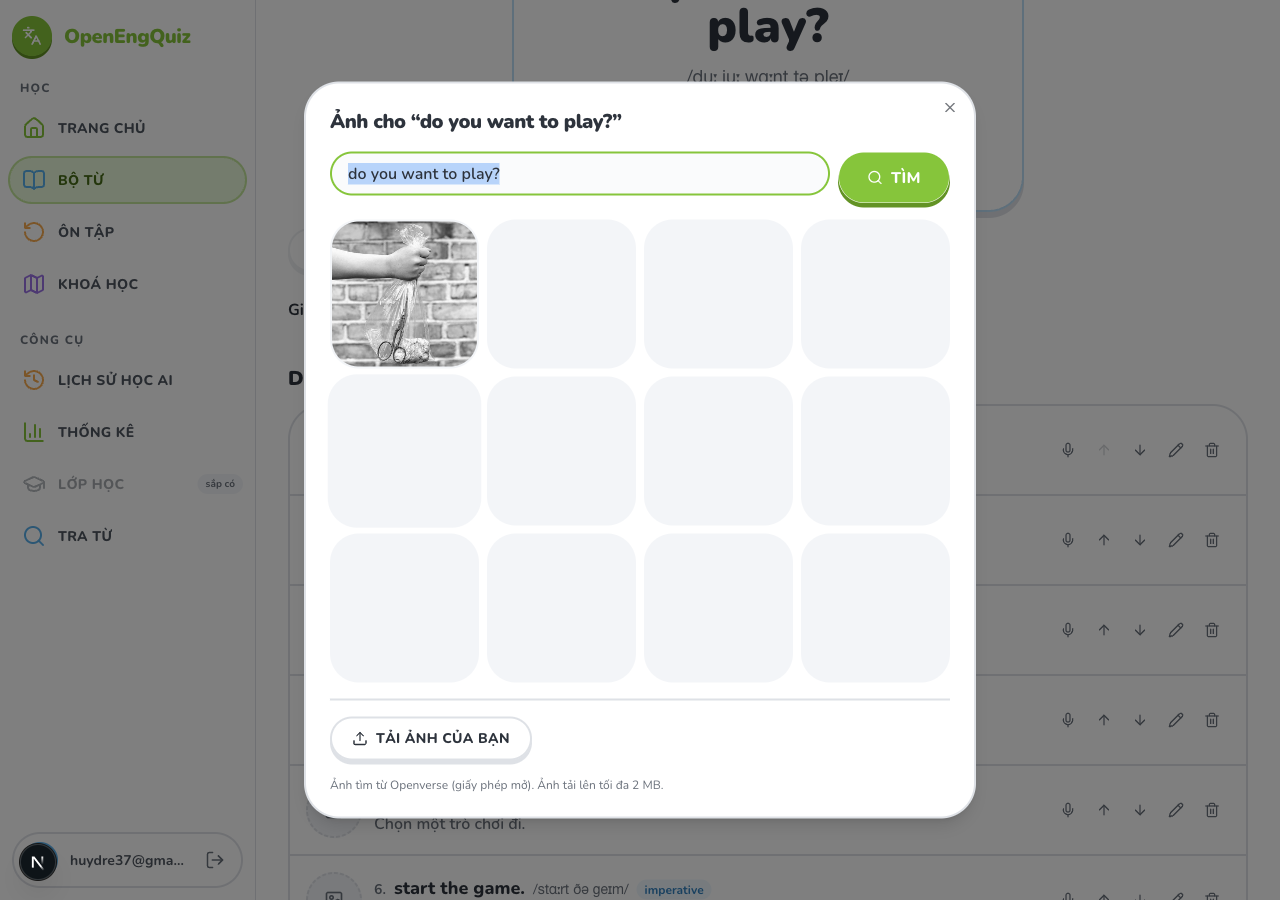
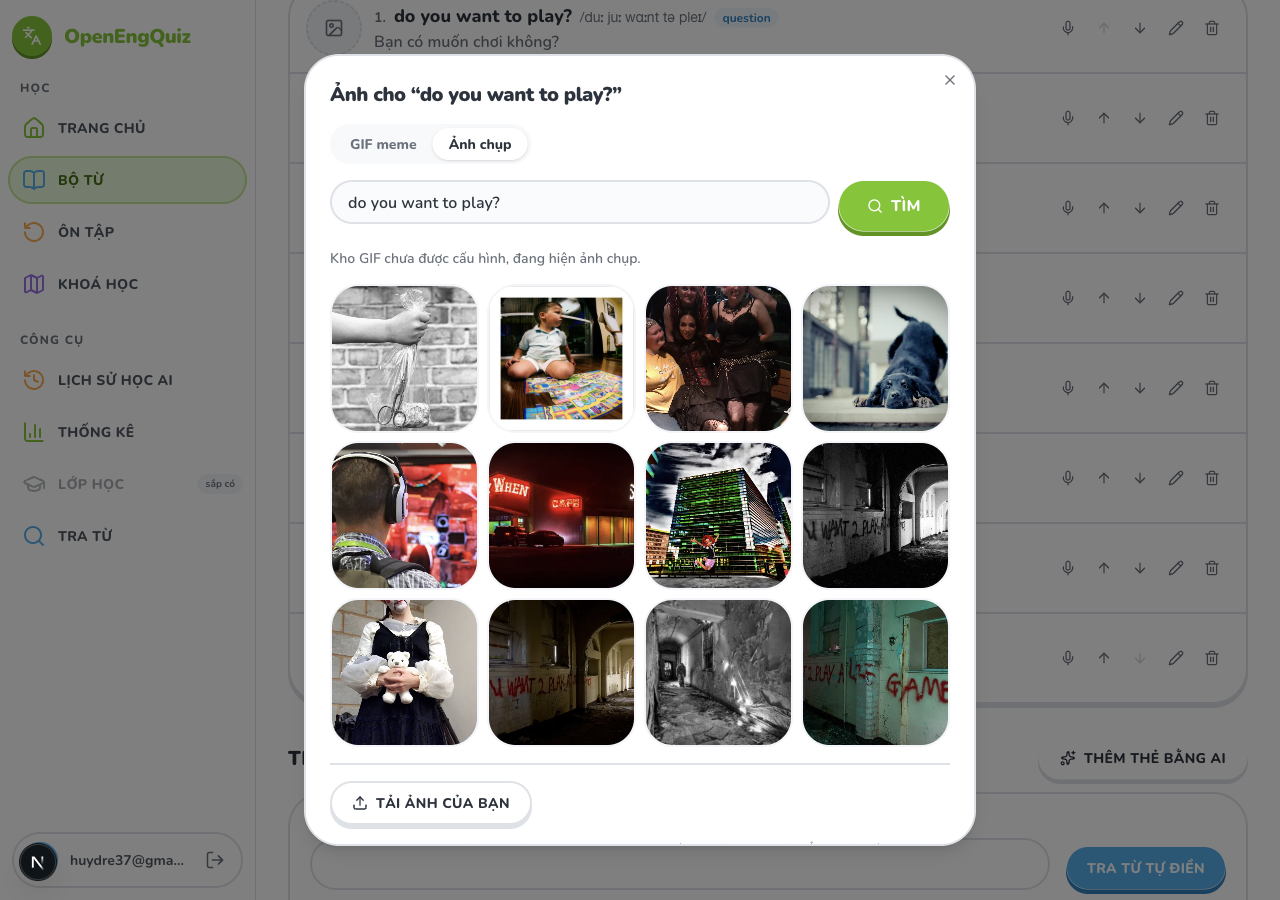
feat(media): GIF meme search for card images via Giphy or Tenor

diff --git a/src/app/(app)/sets/card-image-picker.tsx b/src/app/(app)/sets/card-image-picker.tsx
@@ -26,20 +26,29 @@ export function CardImagePicker({ setId, card, open, onOpenChange }: {
 }) {
   const router = useRouter();
   const [query, setQuery] = useState(card.term);
+  const [kind, setKind] = useState<"gif" | "photo">("gif");
   const [images, setImages] = useState<Found[] | null>(null);
   const [searching, setSearching] = useState(false);
   const [saving, setSaving] = useState(false);
   const [error, setError] = useState("");
+  const [notice, setNotice] = useState("");
   const fileInput = useRef<HTMLInputElement>(null);
   const searched = useRef(false);
 
-  async function search(value: string) {
+  async function search(value: string, type: "gif" | "photo" = kind) {
     if (!value.trim()) return;
     setSearching(true);
     setError("");
     try {
-      const response = await fetch(`/api/media/search?q=${encodeURIComponent(value.trim())}`);
+      const response = await fetch(`/api/media/search?q=${encodeURIComponent(value.trim())}&type=${type}`);
       const body = await response.json().catch(() => ({}));
+      // No GIF provider configured: fall back to photos so the picker is still useful.
+      if (response.status === 503 && type === "gif") {
+        setKind("photo");
+        setNotice("Kho GIF chưa được cấu hình, đang hiện ảnh chụp.");
+        await search(value, "photo");
+        return;
+      }
       if (!response.ok) throw new Error(body.error ?? "Chưa tìm được ảnh.");
       setImages(body.images ?? []);
     } catch (cause) {
@@ -49,12 +58,13 @@ export function CardImagePicker({ setId, card, open, onOpenChange }: {
     }
   }
 
-  // Search once with the card's term when the dialog first opens.
+  // Search once with the card's term when the dialog first opens (later searches are user-driven).
   useEffect(() => {
     if (open && !searched.current) {
       searched.current = true;
       void search(card.term);
     }
+    // eslint-disable-next-line react-hooks/exhaustive-deps -- run once per opening, not on every search change
   }, [open, card.term]);
 
   async function save(url: string | null) {
@@ -99,18 +109,34 @@ export function CardImagePicker({ setId, card, open, onOpenChange }: {
       <DialogContent aria-describedby={undefined} className="bg-card max-h-[88vh] overflow-auto rounded-3xl border-2 sm:max-w-2xl [&>*]:min-w-0">
         <DialogTitle className="pr-8 text-xl font-black">Ảnh cho &ldquo;{card.term}&rdquo;</DialogTitle>
 
+        <div className="bg-muted/60 flex w-fit rounded-2xl p-1" role="tablist" aria-label="Loại ảnh">
+          {(["gif", "photo"] as const).map((value) => (
+            <button
+              key={value}
+              type="button"
+              role="tab"
+              aria-selected={kind === value}
+              onClick={() => { setKind(value); setImages(null); void search(query, value); }}
+              className={cn("rounded-xl px-4 py-1.5 text-sm font-extrabold", kind === value ? "bg-card shadow-sm" : "text-muted-foreground")}
+            >
+              {value === "gif" ? "GIF meme" : "Ảnh chụp"}
+            </button>
+          ))}
+        </div>
+
         <form onSubmit={onSubmit} className="flex gap-2" role="search">
           <input
             value={query}
             onChange={(event) => setQuery(event.target.value)}
             aria-label="Tìm ảnh"
-            placeholder="Tìm ảnh minh hoạ"
+            placeholder={kind === "gif" ? "Tìm GIF, ví dụ: happy, tired, let\u2019s go" : "Tìm ảnh minh hoạ"}
             className="bg-muted/40 focus-visible:border-primary h-11 min-w-0 flex-1 rounded-2xl border-2 px-4 font-semibold outline-none"
           />
           <Button type="submit" size="lg" disabled={searching}><Search aria-hidden="true" /> Tìm</Button>
         </form>
 
         {searching ? <LogoLoader size="sm" label="Đang tìm ảnh..." /> : null}
+        {notice ? <p role="status" className="text-muted-foreground text-sm font-semibold">{notice}</p> : null}
         {error ? <p role="alert" className="text-destructive text-sm font-bold">{error}</p> : null}
 
         {images && !searching ? (
@@ -152,7 +178,7 @@ export function CardImagePicker({ setId, card, open, onOpenChange }: {
           ) : null}
           {saving ? <LogoLoader size="sm" label="Đang lưu..." /> : null}
         </div>
-        <p className="text-muted-foreground text-xs">Ảnh từ kho ảnh miễn phí (Pixabay hoặc Openverse). Ảnh tải lên tối đa 2 MB.</p>
+        <p className="text-muted-foreground text-xs">GIF từ Giphy hoặc Tenor, ảnh chụp từ Pixabay hoặc Openverse, đều lọc nội dung an toàn. Ảnh tải lên tối đa 2 MB.</p>
       </DialogContent>
     </Dialog>
   );

diff --git a/src/app/api/media/search/route.ts b/src/app/api/media/search/route.ts
@@ -6,6 +6,18 @@ export type MediaImage = { thumb: string; url: string; title: string };
 const openverseSchema = z.object({
   results: z.array(z.object({ url: z.string(), thumbnail: z.string().nullable().optional(), title: z.string().nullable().optional() })),
 });
+const giphySchema = z.object({
+  data: z.array(z.object({
+    title: z.string().optional(),
+    images: z.object({ fixed_width: z.object({ url: z.string() }), downsized_medium: z.object({ url: z.string() }).optional(), original: z.object({ url: z.string() }) }),
+  })),
+});
+const tenorSchema = z.object({
+  results: z.array(z.object({
+    content_description: z.string().optional(),
+    media_formats: z.object({ tinygif: z.object({ url: z.string() }), gif: z.object({ url: z.string() }) }),
+  })),
+});
 const pixabaySchema = z.object({
   hits: z.array(z.object({ tags: z.string().optional(), webformatURL: z.string(), largeImageURL: z.string() })),
 });
@@ -23,9 +35,45 @@ export async function GET(request: Request) {
   const { data: { user } } = await supabase.auth.getUser();
   if (!user) return Response.json({ error: "Vui lòng đăng nhập." }, { status: 401 });
 
-  const query = new URL(request.url).searchParams.get("q")?.trim().slice(0, 80);
+  const params = new URL(request.url).searchParams;
+  const query = params.get("q")?.trim().slice(0, 80);
   if (!query) return Response.json({ error: "Nhập từ cần tìm ảnh." }, { status: 400 });
   const signal = AbortSignal.timeout(12_000);
+
+  // GIF memes: Giphy (GIPHY_API_KEY) or Tenor (TENOR_API_KEY), both limited to family-safe ratings.
+  if (params.get("type") === "gif") {
+    const giphyKey = process.env.GIPHY_API_KEY;
+    const tenorKey = process.env.TENOR_API_KEY;
+    if (!giphyKey && !tenorKey) {
+      return Response.json({ error: "Chưa cấu hình kho GIF. Thêm GIPHY_API_KEY hoặc TENOR_API_KEY để tìm GIF." }, { status: 503 });
+    }
+    try {
+      let images: MediaImage[];
+      if (giphyKey) {
+        const search = new URLSearchParams({ api_key: giphyKey, q: query, limit: "12", rating: "pg", lang: "en" });
+        const response = await fetch(`https://api.giphy.com/v1/gifs/search?${search}`, { signal, next: { revalidate: 86_400 } });
+        if (!response.ok) throw new Error(`Giphy ${response.status}`);
+        images = giphySchema.parse(await response.json()).data.map((gif) => ({
+          thumb: gif.images.fixed_width.url,
+          url: gif.images.downsized_medium?.url ?? gif.images.original.url,
+          title: gif.title || query,
+        }));
+      } else {
+        const search = new URLSearchParams({ key: tenorKey!, q: query, limit: "12", contentfilter: "high", media_filter: "tinygif,gif", client_key: "openengquiz" });
+        const response = await fetch(`https://tenor.googleapis.com/v2/search?${search}`, { signal, next: { revalidate: 86_400 } });
+        if (!response.ok) throw new Error(`Tenor ${response.status}`);
+        images = tenorSchema.parse(await response.json()).results.map((gif) => ({
+          thumb: gif.media_formats.tinygif.url,
+          url: gif.media_formats.gif.url,
+          title: gif.content_description || query,
+        }));
+      }
+      return Response.json({ images: images.filter((image) => image.url.startsWith("https://")) });
+    } catch (error) {
+      console.error("GIF search failed", error instanceof Error ? error.message : error);
+      return Response.json({ error: "Chưa tìm được GIF lúc này. Thử lại sau nhé." }, { status: 502 });
+    }
+  }
 
   try {
     const pixabayKey = process.env.PIXABAY_API_KEY;

diff --git a/README.md b/README.md
@@ -30,6 +30,8 @@ Tạo thẻ AI giới hạn 50 thẻ mỗi lượt và 50 lượt mỗi ngày. T
 
 `SPEECH_SERVICE_URL`, `SPEECH_SERVICE_TOKEN` (server-only): dịch vụ giọng nói tự host, xem mục dưới.
 
+`GIPHY_API_KEY` hoặc `TENOR_API_KEY` (tuỳ chọn, chỉ dùng ở server): bật tab "GIF meme" khi chọn ảnh cho thẻ (Giphy rating `pg`, Tenor `contentfilter=high`). Key Giphy lấy tại developers.giphy.com, key Tenor là Google Cloud API key có bật Tenor API. Không có key thì hộp chọn ảnh tự chuyển sang ảnh chụp.
+
 `PIXABAY_API_KEY` (tuỳ chọn, chỉ dùng ở server): tìm ảnh minh hoạ cho thẻ qua Pixabay (key miễn phí tại pixabay.com/api/docs, nhanh). Không có thì dùng Pexels nếu có `PEXELS_API_KEY`, cuối cùng là Openverse (không cần key, chậm hơn). Mọi nguồn đều bật lọc nội dung người lớn.
 
 `GROQ_API_KEY` (khuyến nghị, chỉ dùng ở server): chép câu trả lời nói bằng Groq Whisper (gói miễn phí). Thiếu khoá, hết hạn mức hoặc lỗi thì tự chuyển sang Whisper `base.en` trên dịch vụ giọng nói (`/transcribe`, chậm và kém chính xác hơn với giọng nặng). Người học luôn xem và sửa được bản chép trước khi gửi. Cùng khoá này, nhận xét câu trả lời trong bài học chạy trên Groq (`openai/gpt-oss-120b` chấm điểm, `openai/gpt-oss-20b` viết câu mẫu, khoảng 1,5 s; đổi bằng `FEEDBACK_MODEL` và `FEEDBACK_ANSWER_MODEL`). Hết hạn mức hoặc lỗi thì tự dùng DeepSeek. Band IELTS bị giới hạn theo độ dài câu trả lời để không chấm quá tay. Không cần DeepSeek để chấm phát âm; thiếu cấu hình DeepSeek thì không có phản hồi ngữ pháp AI.
